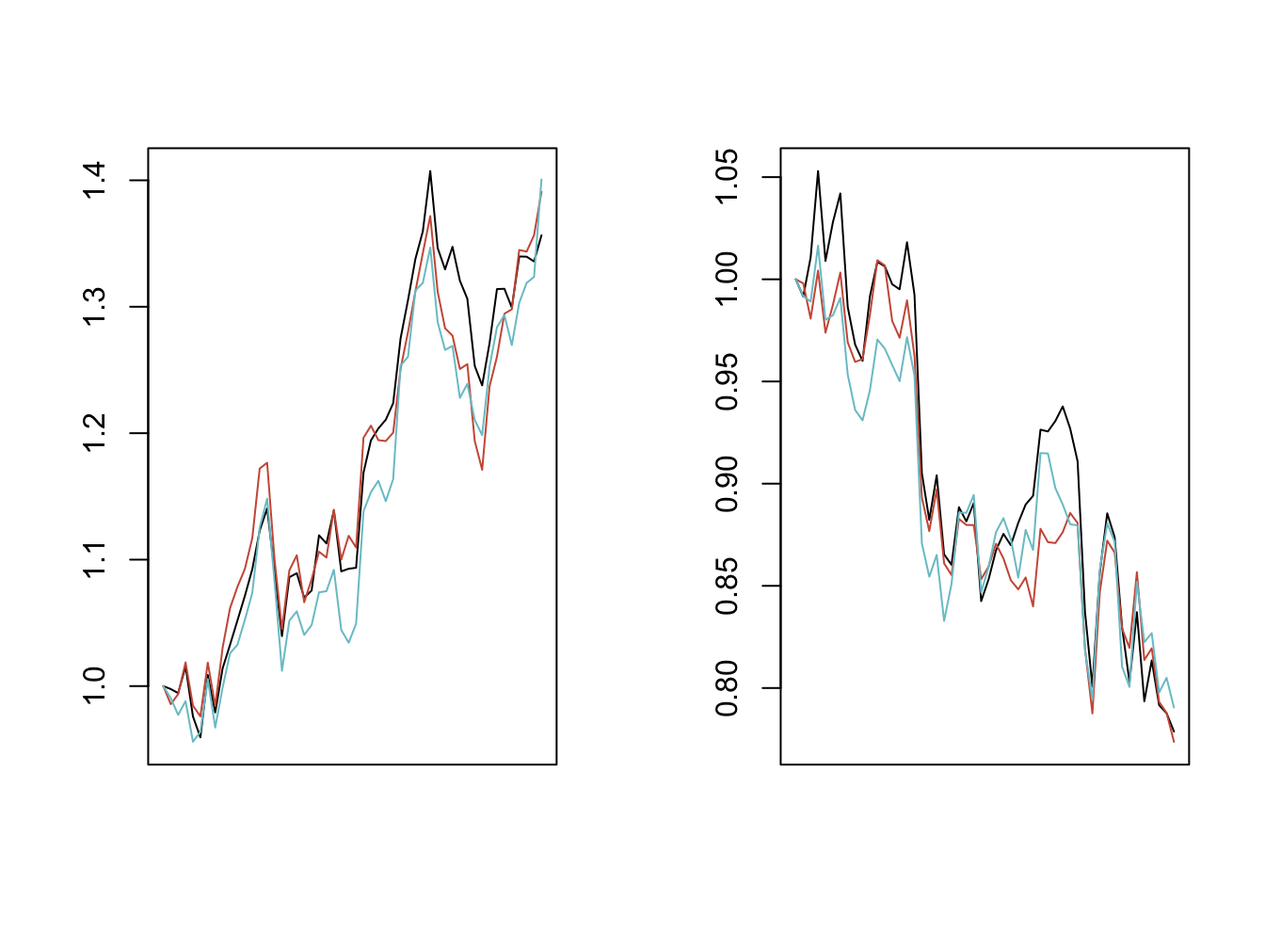
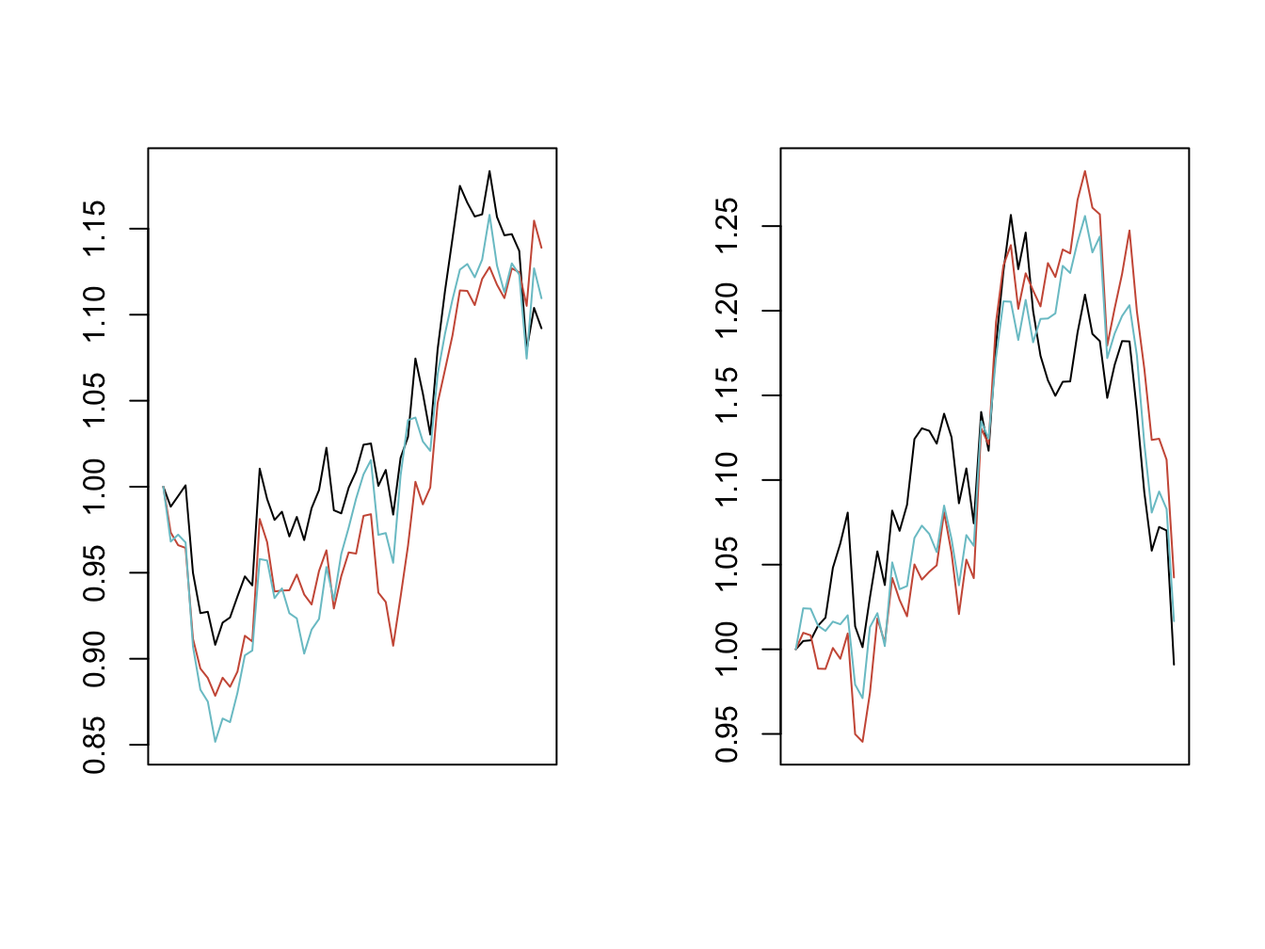
Add payoffs
FCN

diff --git a/docs/payoff.html b/docs/payoff.html
@@ -26,7 +26,7 @@
 <meta name="author" content="Ivan Tan">
 
 
-<meta name="date" content="2017-03-06">
+<meta name="date" content="2017-03-07">
 
   <meta name="viewport" content="width=device-width, initial-scale=1">
   <meta name="apple-mobile-web-app-capable" content="yes">
@@ -121,9 +121,9 @@ code > span.in { color: #60a0b0; font-weight: bold; font-style: italic; } /* Inf
 <li class="chapter" data-level="3.1.4" data-path="payoff.html"><a href="payoff.html#combinations"><i class="fa fa-check"></i><b>3.1.4</b> Combinations</a></li>
 </ul></li>
 <li class="chapter" data-level="3.2" data-path="payoff.html"><a href="payoff.html#autocallable"><i class="fa fa-check"></i><b>3.2</b> Autocallable</a><ul>
-<li class="chapter" data-level="3.2.1" data-path="payoff.html"><a href="payoff.html#apollon"><i class="fa fa-check"></i><b>3.2.1</b> Snowball</a></li>
-<li class="chapter" data-level="3.2.2" data-path="payoff.html"><a href="payoff.html#phoenix"><i class="fa fa-check"></i><b>3.2.2</b> Phoenix</a></li>
-<li class="chapter" data-level="3.2.3" data-path="payoff.html"><a href="payoff.html#fcn"><i class="fa fa-check"></i><b>3.2.3</b> Fixed Coupons Notes</a></li>
+<li class="chapter" data-level="3.2.1" data-path="payoff.html"><a href="payoff.html#fcn"><i class="fa fa-check"></i><b>3.2.1</b> Fixed Coupon</a></li>
+<li class="chapter" data-level="3.2.2" data-path="payoff.html"><a href="payoff.html#apollon"><i class="fa fa-check"></i><b>3.2.2</b> Snowball</a></li>
+<li class="chapter" data-level="3.2.3" data-path="payoff.html"><a href="payoff.html#phoenix"><i class="fa fa-check"></i><b>3.2.3</b> Phoenix</a></li>
 </ul></li>
 <li class="chapter" data-level="3.3" data-path="payoff.html"><a href="payoff.html#issuercallable"><i class="fa fa-check"></i><b>3.3</b> Issuercallable</a></li>
 </ul></li>
@@ -174,7 +174,7 @@ derived from public sources</a></li>
 diffusions =<span class="st">  </span><span class="kw">aSampleSpotT</span>(<span class="dv">1</span>, <span class="dv">0</span>, <span class="dv">0</span>, <span class="dv">0</span>, <span class="fl">0.2</span>, <span class="dv">1</span>, <span class="dv">50000</span>)
 payoffs =<span class="st"> </span><span class="kw">pmax</span>(<span class="dv">0</span>, diffusions -<span class="st"> </span>strikeK)
 <span class="kw">mean</span>(payoffs)</code></pre></div>
-<pre><code>## [1] 0.07949793</code></pre>
+<pre><code>## [1] 0.07994125</code></pre>
 <p>Comparing the result to the Black Scholes solution:</p>
 <p><span class="math display">\[
     \mathrm C(\mathrm S,\mathrm t)= \mathrm N(\mathrm d_1)\mathrm S - \mathrm N(\mathrm d_2) \mathrm K \mathrm e^{-rt}
@@ -246,7 +246,7 @@ Figure 3.1: 2 separate trajectories; Left path ends below the strike and receive
 digitCpn =<span class="st"> </span><span class="fl">0.1</span>
 digitPays =<span class="st"> </span>(diffusions &gt;<span class="st"> </span>digitK)*digitCpn
 <span class="kw">mean</span>(digitPays)</code></pre></div>
-<pre><code>## [1] 0.028054</code></pre>
+<pre><code>## [1] 0.028108</code></pre>
 </div>
 <div id="pdi" class="section level3">
 <h3><span class="header-section-number">3.1.2</span> Put Down and In</h3>
@@ -258,12 +258,12 @@ pdi80Hit =<span class="st"> </span>diffusions &lt;=<span class="st"> </span>eki8
 putPays =<span class="st"> </span><span class="kw">pmax</span>(<span class="dv">0</span>, pdiK -<span class="st"> </span>diffusions)
 pdi80Pays =<span class="st"> </span>putPays*<span class="kw">as.double</span>(pdi80Hit)
 <span class="kw">mean</span>(-<span class="dv">1</span> *<span class="st"> </span>pdi80Pays) <span class="co"># price of short pdi with eki = 80% and strike = 100%</span></code></pre></div>
-<pre><code>## [1] -0.04223061</code></pre>
+<pre><code>## [1] -0.04265471</code></pre>
 <p>We will use the convention of a negative premium for investor <strong>receiving</strong> the premium instead of paying the premium.</p>
 <p>If we think of the knock-in feature on a short put as <em>protection</em>, that is the option seller sold a put that will not be in the money unless the underlying has first broken the knock in barrier, then we should expect a <em>put down and in</em> with european barrier at 80% to bring less value than one with barrier at 90%. Both of which has to be cheaper than a straight put, or a put without knock-in feature.</p>
 <div class="sourceCode"><pre class="sourceCode r"><code class="sourceCode r">pdi_comparison =<span class="st"> </span><span class="kw">c</span>(<span class="kw">mean</span>(-<span class="dv">1</span> *<span class="st"> </span>pdi80Pays), <span class="kw">mean</span>(-<span class="dv">1</span> *<span class="st"> </span>pdi90Pays), <span class="kw">mean</span>(-<span class="dv">1</span> *<span class="st"> </span>putPays))
 pdi_comparison</code></pre></div>
-<pre><code>## [1] -0.04223061 -0.06903801 -0.07937410</code></pre>
+<pre><code>## [1] -0.04265471 -0.06934816 -0.07973815</code></pre>
 <p>We see the seller of the different puts receives more if he sold a <em>put down and in</em> with higher knock-in barrier, or when there is no barrier (a put). Looking consistent!</p>
 <p>By the same argument, a <em>put down and in</em> with american (daily close) knock-in observation type costs more than the european type, since there are more opportunities for the product to be knocked in. We delay this comparison on observation frequency to the next section.</p>
 <p>In structured products, puts with knock-in features are very common, since they provide some protection for the investors unless the underlying has severely underperformed.</p>
@@ -377,14 +377,69 @@ Figure 3.5: Payoff diagram of the product at maturity. Worst performance ended a
 </div>
 <div id="autocallable" class="section level2">
 <h2><span class="header-section-number">3.2</span> Autocallable</h2>
+<p>Autocallable payoffs have features that allow them to “mature” earlier than their stated expiry when a condition is satisfied. During early redemption the investor gets to receive back their full notional before the contractual maturity. If the payoff has any downside risk at maturity, being autocallable also means the investor no longer gets exposed to the downside.</p>
+<p>In practice, distributors of structure products make their commission from each sale, when a product get redeemed they get an opportunity to pitch another product to their clients, these reasons make autocallable product fairly popular structures.</p>
+<p>The condition to be satisfied could be linked to a stock’s performance. An example would be the product automatically early redeeems if the stock’s daily closing price ever breaches a certain price level before maturity.</p>
+<p>On early redemption the investor may also receive an upside. We look at some possible upsides on autocallable payoffs below.</p>
+<div id="fcn" class="section level3">
+<h3><span class="header-section-number">3.2.1</span> Fixed Coupon</h3>
+<p>Fixed coupon autocallables pays a guaranteed coupon to the investor at pre-specified times during the product. The observation of autocall condition can be made the same as these coupon payout timings.</p>
+<p>As an example, assume an investor buys a two year 8% annualised fixed coupon autocallable note linked to one stock. The autocall condition (or event) is observed quarterly over the one year and the 8 quarterly fixed coupons will be paid at each of these observation timings.</p>
+<p>The autocall event is satisfied if the stock performs better than it’s initial spot at each of this fixings. When the event triggers, the period’s coupon and the notional paid on the note is returned to the investor.</p>
+<p>In other to pay these upside, the product embeds a short put striked at the money. We assume the stock has a constant 30% annual volatility, drift and rates are equal zero. A sample quarterly close of this stock is:</p>
+<div class="sourceCode"><pre class="sourceCode r"><code class="sourceCode r"><span class="kw">set.seed</span>(<span class="dv">1</span>)
+fcn_numSteps =<span class="st"> </span><span class="dv">8</span> <span class="co"># 8 qtrly obs</span>
+fcn_oneTraj =<span class="st"> </span><span class="kw">rep</span>(<span class="dv">1</span>, fcn_numSteps<span class="dv">+1</span>)
+for (i in <span class="dv">2</span>:(fcn_numSteps<span class="dv">+1</span>))
+  fcn_oneTraj[i] =<span class="st"> </span><span class="kw">aSampleSpotT</span>(fcn_oneTraj[i<span class="dv">-1</span>], <span class="dv">0</span>, <span class="dv">0</span>, <span class="dv">0</span>, <span class="fl">0.3</span>, <span class="dv">2</span>/fcn_numSteps, <span class="dv">1</span>)
+<span class="kw">cat</span>(<span class="st">&quot;Stock price at each of the 8 quarterly close: &quot;</span>, fcn_oneTraj)</code></pre></div>
+<pre><code>## Stock price at each of the 8 quarterly close:  1 0.9001282 0.9149173 0.7981044 1.002529 1.041542 0.9106307 0.9687454 1.070093</code></pre>
+<p>We see that during the first 9 months, the quarterly closes were not above the initial price, so there was no early redemption. The guaranteed quarterly 2% coupons were also paid, so the investor received 6% up till the 3rd quarter. On the end of year 1, the underlying closed around 100.3%, just barely over the initial spot. Since there is an autocallble feature in this note. The investor receives his notional plus the final 2% on the end of year 1.</p>
+<p>The product then early terminates and investor no longer receives further coupons or is exposed to the downside at maturity. If there were no autocall feature in the payoff, the client would have received a further year of coupons. The put he sold did not end up in the money. Therefore the total return were have been 16% over entire tenor.</p>
+<p>Pricing this product is a matter of simulation the stock diffusions and evaluation the payoff, that is determining the cashflows of the product for each sample trajectory. For this stylised example we also assuming rates were zero, so no discounting of the cashflows is needed.</p>
+<div class="sourceCode"><pre class="sourceCode r"><code class="sourceCode r"><span class="co"># generate the diffusion</span>
+<span class="kw">set.seed</span>(<span class="dv">1</span>)
+fcn_nsims =<span class="st"> </span><span class="dv">10000</span>
+fcn_manyTraj =<span class="st"> </span><span class="kw">matrix</span>(<span class="kw">rep</span>(<span class="dv">1</span>, (fcn_numSteps<span class="dv">+1</span>)*fcn_nsims), <span class="dt">nrow =</span> fcn_nsims)
+for (i in <span class="dv">2</span>:(fcn_numSteps<span class="dv">+1</span>))
+  fcn_manyTraj[,i] =<span class="st"> </span><span class="kw">aSampleSpotT</span>(fcn_manyTraj[,i<span class="dv">-1</span>], <span class="dv">0</span>, <span class="dv">0</span>, <span class="dv">0</span>, <span class="fl">0.3</span>, <span class="dv">2</span>/fcn_numSteps, fcn_nsims)
+
+<span class="co"># evaluate the payoff at each observation</span>
+fcn_payoffs =<span class="st"> </span><span class="kw">matrix</span>(<span class="kw">rep</span>(<span class="dv">0</span>, (fcn_numSteps<span class="dv">+1</span>)*fcn_nsims), <span class="dt">nrow =</span> fcn_nsims)
+
+<span class="co"># upside</span>
+for (i in <span class="dv">1</span>:fcn_nsims)
+  for (j in <span class="dv">2</span>:fcn_numSteps)
+  {
+    spot =<span class="st"> </span>fcn_manyTraj[i, j]
+    if (spot &gt;<span class="st"> </span><span class="dv">1</span>) {
+      fcn_payoffs[i, j] =<span class="st"> </span><span class="fl">0.02</span>
+      if (j !=<span class="st"> </span>fcn_numSteps)
+        fcn_payoffs[i, (j<span class="dv">+1</span>):fcn_numSteps] =<span class="st"> </span><span class="dv">0</span>
+      break;
+    } else {
+      fcn_payoffs[i, j] =<span class="st"> </span><span class="fl">0.02</span>
+    }
+  }
+
+<span class="co"># downsides</span>
+for (i in <span class="dv">1</span>:fcn_nsims)
+{
+  if (<span class="kw">sum</span>(fcn_manyTraj[i,<span class="dv">1</span>:(fcn_numSteps<span class="dv">+1</span>)] &gt;<span class="st"> </span><span class="dv">1</span>) &lt;<span class="st"> </span><span class="fl">0.5</span>)
+    fcn_payoffs[i, fcn_numSteps<span class="dv">+1</span>] =<span class="st">  </span>-<span class="kw">max</span>(<span class="dv">0</span>, <span class="dv">1</span> -<span class="st"> </span>fcn_manyTraj[i, fcn_numSteps<span class="dv">+1</span>])
+}
+
+<span class="co"># sum all cashflows and take the average</span>
+fcn_retPerTraj =<span class="st"> </span><span class="kw">apply</span>(fcn_payoffs, <span class="dv">1</span>, sum)
+<span class="kw">mean</span>(fcn_retPerTraj)</code></pre></div>
+<pre><code>## [1] -0.02590366</code></pre>
+<p>If the issuer and distributor had sold at par the note to the end investor at these stated terms, they would collectively kept 2.6% as margins and hedging costs.</p>
+</div>
 <div id="apollon" class="section level3">
-<h3><span class="header-section-number">3.2.1</span> Snowball</h3>
+<h3><span class="header-section-number">3.2.2</span> Snowball</h3>
 </div>
 <div id="phoenix" class="section level3">
-<h3><span class="header-section-number">3.2.2</span> Phoenix</h3>
-</div>
-<div id="fcn" class="section level3">
-<h3><span class="header-section-number">3.2.3</span> Fixed Coupons Notes</h3>
+<h3><span class="header-section-number">3.2.3</span> Phoenix</h3>
 </div>
 </div>
 <div id="issuercallable" class="section level2">

diff --git a/docs/index.html b/docs/index.html
@@ -26,7 +26,7 @@
 <meta name="author" content="Ivan Tan">
 
 
-<meta name="date" content="2017-03-06">
+<meta name="date" content="2017-03-07">
 
   <meta name="viewport" content="width=device-width, initial-scale=1">
   <meta name="apple-mobile-web-app-capable" content="yes">
@@ -121,9 +121,9 @@ code > span.in { color: #60a0b0; font-weight: bold; font-style: italic; } /* Inf
 <li class="chapter" data-level="3.1.4" data-path="payoff.html"><a href="payoff.html#combinations"><i class="fa fa-check"></i><b>3.1.4</b> Combinations</a></li>
 </ul></li>
 <li class="chapter" data-level="3.2" data-path="payoff.html"><a href="payoff.html#autocallable"><i class="fa fa-check"></i><b>3.2</b> Autocallable</a><ul>
-<li class="chapter" data-level="3.2.1" data-path="payoff.html"><a href="payoff.html#apollon"><i class="fa fa-check"></i><b>3.2.1</b> Snowball</a></li>
-<li class="chapter" data-level="3.2.2" data-path="payoff.html"><a href="payoff.html#phoenix"><i class="fa fa-check"></i><b>3.2.2</b> Phoenix</a></li>
-<li class="chapter" data-level="3.2.3" data-path="payoff.html"><a href="payoff.html#fcn"><i class="fa fa-check"></i><b>3.2.3</b> Fixed Coupons Notes</a></li>
+<li class="chapter" data-level="3.2.1" data-path="payoff.html"><a href="payoff.html#fcn"><i class="fa fa-check"></i><b>3.2.1</b> Fixed Coupon</a></li>
+<li class="chapter" data-level="3.2.2" data-path="payoff.html"><a href="payoff.html#apollon"><i class="fa fa-check"></i><b>3.2.2</b> Snowball</a></li>
+<li class="chapter" data-level="3.2.3" data-path="payoff.html"><a href="payoff.html#phoenix"><i class="fa fa-check"></i><b>3.2.3</b> Phoenix</a></li>
 </ul></li>
 <li class="chapter" data-level="3.3" data-path="payoff.html"><a href="payoff.html#issuercallable"><i class="fa fa-check"></i><b>3.3</b> Issuercallable</a></li>
 </ul></li>
@@ -169,7 +169,7 @@ derived from public sources</a></li>
 <div id="header">
 <h1 class="title">Notes</h1>
 <h4 class="author"><em>Ivan Tan</em></h4>
-<h4 class="date"><em>2017-03-06</em></h4>
+<h4 class="date"><em>2017-03-07</em></h4>
 </div>
 <div id="diffuse" class="section level1">
 <h1><span class="header-section-number">Chapter 1</span> Diffusion</h1>
@@ -183,7 +183,7 @@ derived from public sources</a></li>
   sT
 }
 <span class="kw">cat</span>(<span class="st">&quot;Spot after 1 year: &quot;</span>, <span class="kw">aSampleSpotT</span>(<span class="dv">1</span>, <span class="fl">0.04</span>, <span class="fl">0.01</span>, <span class="dv">0</span>, <span class="fl">0.2</span>, <span class="dv">1</span>, <span class="dv">1</span>))</code></pre></div>
-<pre><code>## Spot after 1 year:  1.058742</code></pre>
+<pre><code>## Spot after 1 year:  1.227238</code></pre>
 <p>If required we may also compute over several consecutive periods to generate a trajectory. If we repeat this process many times we see how the stock diffusion is going to look like.</p>
 <p>Assuming we will drift the stock by 0% p.a., that is market parameters <span class="math inline">\(r - d - q = 0\)</span>, and that it has constant annualised volatility of 20%, Let’s plot several trajectories. See Figure <a href="index.html#fig:several-traj">1.1</a>:</p>
 <div class="sourceCode"><pre class="sourceCode r"><code class="sourceCode r">numSteps =<span class="st"> </span><span class="dv">52</span> <span class="co"># weekly</span>
@@ -191,7 +191,7 @@ oneTraj =<span class="st"> </span><span class="kw">rep</span>(<span class="dv">1
 for (i in <span class="dv">2</span>:numSteps)
   oneTraj[i] =<span class="st"> </span><span class="kw">aSampleSpotT</span>(oneTraj[i<span class="dv">-1</span>], <span class="dv">0</span>, <span class="dv">0</span>, <span class="dv">0</span>, <span class="fl">0.2</span>, <span class="dv">1</span>/numSteps, <span class="dv">1</span>)
 <span class="kw">cat</span>(<span class="st">&quot;First 5 weekly close: &quot;</span>, oneTraj[<span class="dv">1</span>:<span class="dv">5</span>])</code></pre></div>
-<pre><code>## First 5 weekly close:  1 0.9732981 0.9148824 0.9325205 0.9330477</code></pre>
+<pre><code>## First 5 weekly close:  1 0.9979712 0.9938938 1.000732 0.9860534</code></pre>
 <div class="sourceCode"><pre class="sourceCode r"><code class="sourceCode r"><span class="kw">par</span>(<span class="dt">mfrow =</span> <span class="kw">c</span>(<span class="dv">1</span>, <span class="dv">2</span>))
 <span class="kw">plot</span>(oneTraj, <span class="dt">type =</span> <span class="st">&quot;l&quot;</span>,
      <span class="dt">axes =</span> F, <span class="dt">xlab =</span> <span class="st">&quot;&quot;</span>, <span class="dt">ylab =</span> <span class="st">&quot;&quot;</span>,
@@ -284,26 +284,26 @@ for (i in <span class="dv">2</span>:numSteps)
 <tr class="odd">
 <td>undl1</td>
 <td align="right">1</td>
-<td align="right">0.9976845</td>
-<td align="right">0.9944772</td>
-<td align="right">1.0154737</td>
-<td align="right">0.9759374</td>
+<td align="right">0.9884012</td>
+<td align="right">0.9945701</td>
+<td align="right">1.0008157</td>
+<td align="right">0.9499782</td>
 </tr>
 <tr class="even">
 <td>undl2</td>
 <td align="right">1</td>
-<td align="right">0.9856863</td>
-<td align="right">0.9936068</td>
-<td align="right">1.0187560</td>
-<td align="right">0.9845475</td>
+<td align="right">0.9733947</td>
+<td align="right">0.9660142</td>
+<td align="right">0.9644417</td>
+<td align="right">0.9116083</td>
 </tr>
 <tr class="odd">
 <td>undl3</td>
 <td align="right">1</td>
-<td align="right">0.9905005</td>
-<td align="right">0.9772523</td>
-<td align="right">0.9880967</td>
-<td align="right">0.9559537</td>
+<td align="right">0.9681131</td>
+<td align="right">0.9721311</td>
+<td align="right">0.9676015</td>
+<td align="right">0.9070814</td>
 </tr>
 </tbody>
 </table>
@@ -332,12 +332,12 @@ for (i in <span class="dv">2</span>:numSteps)
 <p>In this stylised result we see how the worst-of underlying may differ over time.</p>
 <div class="sourceCode"><pre class="sourceCode r"><code class="sourceCode r"><span class="kw">print</span>(corrTraj2[,<span class="dv">1</span>:<span class="dv">5</span>]) <span class="co"># First 5 weekly close of 3 less correlated undls</span></code></pre></div>
 <pre><code>##      [,1]      [,2]      [,3]      [,4]      [,5]
-## [1,]    1 0.9579938 0.9608714 0.9303943 0.9096714
-## [2,]    1 1.0023613 1.0167211 1.0334814 1.0329243
-## [3,]    1 0.9628227 0.9567382 0.9415245 0.9399668</code></pre>
+## [1,]    1 1.0533054 1.0538027 1.0191959 1.0132602
+## [2,]    1 0.9830126 0.9931209 0.9652524 0.9637003
+## [3,]    1 1.0100581 1.0082731 1.0377573 1.0424124</code></pre>
 <div class="sourceCode"><pre class="sourceCode r"><code class="sourceCode r">woTraj =<span class="st"> </span><span class="kw">apply</span>(corrTraj2, <span class="dv">2</span>, min)
 <span class="kw">print</span>(woTraj[<span class="dv">1</span>:<span class="dv">5</span>]) <span class="co"># First 5 weekly close of the worst &quot;underlying&quot;</span></code></pre></div>
-<pre><code>## [1] 1.0000000 0.9579938 0.9567382 0.9303943 0.9096714</code></pre>
+<pre><code>## [1] 1.0000000 0.9830126 0.9931209 0.9652524 0.9637003</code></pre>
 <p>Let’s plot one sample of all underlying paths. On the right we overlay the worst-of “underlying” in blue while greying out the actual underlying paths. See Figure <a href="index.html#fig:wo-traj-plot">1.3</a>:</p>
 <div class="sourceCode"><pre class="sourceCode r"><code class="sourceCode r"><span class="kw">par</span>(<span class="dt">mfrow =</span> <span class="kw">c</span>(<span class="dv">1</span>, <span class="dv">2</span>))
 <span class="kw">plot</span>(corrTraj2[<span class="dv">1</span>,], <span class="dt">type =</span> <span class="st">&quot;l&quot;</span>,
@@ -370,12 +370,12 @@ Figure 1.3: A basket of 3 underlyings (in grey) and the worst-of underlying (in 
 <p>Unlike the worst-of call option, a best-of call is more expensive than the average of call. However, if you have a bearish view, buying a best-of put is much more affordable. Likewise, <em>selling</em> a best-of call brings the investor much more premium.</p>
 <div class="sourceCode"><pre class="sourceCode r"><code class="sourceCode r"><span class="kw">print</span>(corrTraj2[,<span class="dv">1</span>:<span class="dv">5</span>]) <span class="co"># First 5 weekly close of 3 correlated undls</span></code></pre></div>
 <pre><code>##      [,1]      [,2]      [,3]      [,4]      [,5]
-## [1,]    1 0.9579938 0.9608714 0.9303943 0.9096714
-## [2,]    1 1.0023613 1.0167211 1.0334814 1.0329243
-## [3,]    1 0.9628227 0.9567382 0.9415245 0.9399668</code></pre>
+## [1,]    1 1.0533054 1.0538027 1.0191959 1.0132602
+## [2,]    1 0.9830126 0.9931209 0.9652524 0.9637003
+## [3,]    1 1.0100581 1.0082731 1.0377573 1.0424124</code></pre>
 <div class="sourceCode"><pre class="sourceCode r"><code class="sourceCode r">boTraj =<span class="st"> </span><span class="kw">apply</span>(corrTraj2, <span class="dv">2</span>, max)
 <span class="kw">print</span>(woTraj[<span class="dv">1</span>:<span class="dv">5</span>]) <span class="co"># First 5 weekly close of the worst &quot;underlying&quot;</span></code></pre></div>
-<pre><code>## [1] 1.0000000 0.9579938 0.9567382 0.9303943 0.9096714</code></pre>
+<pre><code>## [1] 1.0000000 0.9830126 0.9931209 0.9652524 0.9637003</code></pre>
 <p>Again, we see there is no need for the best-of “underlying” to be the same underlying in the basket from start to end of the product tenor. See Figure <a href="index.html#fig:bo-traj-plot">1.4</a>:</p>
 <div class="sourceCode"><pre class="sourceCode r"><code class="sourceCode r"><span class="kw">par</span>(<span class="dt">mfrow =</span> <span class="kw">c</span>(<span class="dv">1</span>, <span class="dv">2</span>))
 <span class="kw">plot</span>(corrTraj2[<span class="dv">1</span>,], <span class="dt">type =</span> <span class="st">&quot;l&quot;</span>,

diff --git a/docs/lsmc.html b/docs/lsmc.html
@@ -26,7 +26,7 @@
 <meta name="author" content="Ivan Tan">
 
 
-<meta name="date" content="2017-03-06">
+<meta name="date" content="2017-03-07">
 
   <meta name="viewport" content="width=device-width, initial-scale=1">
   <meta name="apple-mobile-web-app-capable" content="yes">
@@ -121,9 +121,9 @@ code > span.in { color: #60a0b0; font-weight: bold; font-style: italic; } /* Inf
 <li class="chapter" data-level="3.1.4" data-path="payoff.html"><a href="payoff.html#combinations"><i class="fa fa-check"></i><b>3.1.4</b> Combinations</a></li>
 </ul></li>
 <li class="chapter" data-level="3.2" data-path="payoff.html"><a href="payoff.html#autocallable"><i class="fa fa-check"></i><b>3.2</b> Autocallable</a><ul>
-<li class="chapter" data-level="3.2.1" data-path="payoff.html"><a href="payoff.html#apollon"><i class="fa fa-check"></i><b>3.2.1</b> Snowball</a></li>
-<li class="chapter" data-level="3.2.2" data-path="payoff.html"><a href="payoff.html#phoenix"><i class="fa fa-check"></i><b>3.2.2</b> Phoenix</a></li>
-<li class="chapter" data-level="3.2.3" data-path="payoff.html"><a href="payoff.html#fcn"><i class="fa fa-check"></i><b>3.2.3</b> Fixed Coupons Notes</a></li>
+<li class="chapter" data-level="3.2.1" data-path="payoff.html"><a href="payoff.html#fcn"><i class="fa fa-check"></i><b>3.2.1</b> Fixed Coupon</a></li>
+<li class="chapter" data-level="3.2.2" data-path="payoff.html"><a href="payoff.html#apollon"><i class="fa fa-check"></i><b>3.2.2</b> Snowball</a></li>
+<li class="chapter" data-level="3.2.3" data-path="payoff.html"><a href="payoff.html#phoenix"><i class="fa fa-check"></i><b>3.2.3</b> Phoenix</a></li>
 </ul></li>
 <li class="chapter" data-level="3.3" data-path="payoff.html"><a href="payoff.html#issuercallable"><i class="fa fa-check"></i><b>3.3</b> Issuercallable</a></li>
 </ul></li>

diff --git a/docs/quirk.html b/docs/quirk.html
@@ -26,7 +26,7 @@
 <meta name="author" content="Ivan Tan">
 
 
-<meta name="date" content="2017-03-06">
+<meta name="date" content="2017-03-07">
 
   <meta name="viewport" content="width=device-width, initial-scale=1">
   <meta name="apple-mobile-web-app-capable" content="yes">
@@ -121,9 +121,9 @@ code > span.in { color: #60a0b0; font-weight: bold; font-style: italic; } /* Inf
 <li class="chapter" data-level="3.1.4" data-path="payoff.html"><a href="payoff.html#combinations"><i class="fa fa-check"></i><b>3.1.4</b> Combinations</a></li>
 </ul></li>
 <li class="chapter" data-level="3.2" data-path="payoff.html"><a href="payoff.html#autocallable"><i class="fa fa-check"></i><b>3.2</b> Autocallable</a><ul>
-<li class="chapter" data-level="3.2.1" data-path="payoff.html"><a href="payoff.html#apollon"><i class="fa fa-check"></i><b>3.2.1</b> Snowball</a></li>
-<li class="chapter" data-level="3.2.2" data-path="payoff.html"><a href="payoff.html#phoenix"><i class="fa fa-check"></i><b>3.2.2</b> Phoenix</a></li>
-<li class="chapter" data-level="3.2.3" data-path="payoff.html"><a href="payoff.html#fcn"><i class="fa fa-check"></i><b>3.2.3</b> Fixed Coupons Notes</a></li>
+<li class="chapter" data-level="3.2.1" data-path="payoff.html"><a href="payoff.html#fcn"><i class="fa fa-check"></i><b>3.2.1</b> Fixed Coupon</a></li>
+<li class="chapter" data-level="3.2.2" data-path="payoff.html"><a href="payoff.html#apollon"><i class="fa fa-check"></i><b>3.2.2</b> Snowball</a></li>
+<li class="chapter" data-level="3.2.3" data-path="payoff.html"><a href="payoff.html#phoenix"><i class="fa fa-check"></i><b>3.2.3</b> Phoenix</a></li>
 </ul></li>
 <li class="chapter" data-level="3.3" data-path="payoff.html"><a href="payoff.html#issuercallable"><i class="fa fa-check"></i><b>3.3</b> Issuercallable</a></li>
 </ul></li>

diff --git a/docs/refer.html b/docs/refer.html
@@ -26,7 +26,7 @@
 <meta name="author" content="Ivan Tan">
 
 
-<meta name="date" content="2017-03-06">
+<meta name="date" content="2017-03-07">
 
   <meta name="viewport" content="width=device-width, initial-scale=1">
   <meta name="apple-mobile-web-app-capable" content="yes">
@@ -121,9 +121,9 @@ code > span.in { color: #60a0b0; font-weight: bold; font-style: italic; } /* Inf
 <li class="chapter" data-level="3.1.4" data-path="payoff.html"><a href="payoff.html#combinations"><i class="fa fa-check"></i><b>3.1.4</b> Combinations</a></li>
 </ul></li>
 <li class="chapter" data-level="3.2" data-path="payoff.html"><a href="payoff.html#autocallable"><i class="fa fa-check"></i><b>3.2</b> Autocallable</a><ul>
-<li class="chapter" data-level="3.2.1" data-path="payoff.html"><a href="payoff.html#apollon"><i class="fa fa-check"></i><b>3.2.1</b> Snowball</a></li>
-<li class="chapter" data-level="3.2.2" data-path="payoff.html"><a href="payoff.html#phoenix"><i class="fa fa-check"></i><b>3.2.2</b> Phoenix</a></li>
-<li class="chapter" data-level="3.2.3" data-path="payoff.html"><a href="payoff.html#fcn"><i class="fa fa-check"></i><b>3.2.3</b> Fixed Coupons Notes</a></li>
+<li class="chapter" data-level="3.2.1" data-path="payoff.html"><a href="payoff.html#fcn"><i class="fa fa-check"></i><b>3.2.1</b> Fixed Coupon</a></li>
+<li class="chapter" data-level="3.2.2" data-path="payoff.html"><a href="payoff.html#apollon"><i class="fa fa-check"></i><b>3.2.2</b> Snowball</a></li>
+<li class="chapter" data-level="3.2.3" data-path="payoff.html"><a href="payoff.html#phoenix"><i class="fa fa-check"></i><b>3.2.3</b> Phoenix</a></li>
 </ul></li>
 <li class="chapter" data-level="3.3" data-path="payoff.html"><a href="payoff.html#issuercallable"><i class="fa fa-check"></i><b>3.3</b> Issuercallable</a></li>
 </ul></li>

diff --git a/docs/scen.html b/docs/scen.html
@@ -26,7 +26,7 @@
 <meta name="author" content="Ivan Tan">
 
 
-<meta name="date" content="2017-03-06">
+<meta name="date" content="2017-03-07">
 
   <meta name="viewport" content="width=device-width, initial-scale=1">
   <meta name="apple-mobile-web-app-capable" content="yes">
@@ -121,9 +121,9 @@ code > span.in { color: #60a0b0; font-weight: bold; font-style: italic; } /* Inf
 <li class="chapter" data-level="3.1.4" data-path="payoff.html"><a href="payoff.html#combinations"><i class="fa fa-check"></i><b>3.1.4</b> Combinations</a></li>
 </ul></li>
 <li class="chapter" data-level="3.2" data-path="payoff.html"><a href="payoff.html#autocallable"><i class="fa fa-check"></i><b>3.2</b> Autocallable</a><ul>
-<li class="chapter" data-level="3.2.1" data-path="payoff.html"><a href="payoff.html#apollon"><i class="fa fa-check"></i><b>3.2.1</b> Snowball</a></li>
-<li class="chapter" data-level="3.2.2" data-path="payoff.html"><a href="payoff.html#phoenix"><i class="fa fa-check"></i><b>3.2.2</b> Phoenix</a></li>
-<li class="chapter" data-level="3.2.3" data-path="payoff.html"><a href="payoff.html#fcn"><i class="fa fa-check"></i><b>3.2.3</b> Fixed Coupons Notes</a></li>
+<li class="chapter" data-level="3.2.1" data-path="payoff.html"><a href="payoff.html#fcn"><i class="fa fa-check"></i><b>3.2.1</b> Fixed Coupon</a></li>
+<li class="chapter" data-level="3.2.2" data-path="payoff.html"><a href="payoff.html#apollon"><i class="fa fa-check"></i><b>3.2.2</b> Snowball</a></li>
+<li class="chapter" data-level="3.2.3" data-path="payoff.html"><a href="payoff.html#phoenix"><i class="fa fa-check"></i><b>3.2.3</b> Phoenix</a></li>
 </ul></li>
 <li class="chapter" data-level="3.3" data-path="payoff.html"><a href="payoff.html#issuercallable"><i class="fa fa-check"></i><b>3.3</b> Issuercallable</a></li>
 </ul></li>

diff --git a/docs/sensi.html b/docs/sensi.html
@@ -26,7 +26,7 @@
 <meta name="author" content="Ivan Tan">
 
 
-<meta name="date" content="2017-03-06">
+<meta name="date" content="2017-03-07">
 
   <meta name="viewport" content="width=device-width, initial-scale=1">
   <meta name="apple-mobile-web-app-capable" content="yes">
@@ -121,9 +121,9 @@ code > span.in { color: #60a0b0; font-weight: bold; font-style: italic; } /* Inf
 <li class="chapter" data-level="3.1.4" data-path="payoff.html"><a href="payoff.html#combinations"><i class="fa fa-check"></i><b>3.1.4</b> Combinations</a></li>
 </ul></li>
 <li class="chapter" data-level="3.2" data-path="payoff.html"><a href="payoff.html#autocallable"><i class="fa fa-check"></i><b>3.2</b> Autocallable</a><ul>
-<li class="chapter" data-level="3.2.1" data-path="payoff.html"><a href="payoff.html#apollon"><i class="fa fa-check"></i><b>3.2.1</b> Snowball</a></li>
-<li class="chapter" data-level="3.2.2" data-path="payoff.html"><a href="payoff.html#phoenix"><i class="fa fa-check"></i><b>3.2.2</b> Phoenix</a></li>
-<li class="chapter" data-level="3.2.3" data-path="payoff.html"><a href="payoff.html#fcn"><i class="fa fa-check"></i><b>3.2.3</b> Fixed Coupons Notes</a></li>
+<li class="chapter" data-level="3.2.1" data-path="payoff.html"><a href="payoff.html#fcn"><i class="fa fa-check"></i><b>3.2.1</b> Fixed Coupon</a></li>
+<li class="chapter" data-level="3.2.2" data-path="payoff.html"><a href="payoff.html#apollon"><i class="fa fa-check"></i><b>3.2.2</b> Snowball</a></li>
+<li class="chapter" data-level="3.2.3" data-path="payoff.html"><a href="payoff.html#phoenix"><i class="fa fa-check"></i><b>3.2.3</b> Phoenix</a></li>
 </ul></li>
 <li class="chapter" data-level="3.3" data-path="payoff.html"><a href="payoff.html#issuercallable"><i class="fa fa-check"></i><b>3.3</b> Issuercallable</a></li>
 </ul></li>

diff --git a/docs/volsurf.html b/docs/volsurf.html
@@ -26,7 +26,7 @@
 <meta name="author" content="Ivan Tan">
 
 
-<meta name="date" content="2017-03-06">
+<meta name="date" content="2017-03-07">
 
   <meta name="viewport" content="width=device-width, initial-scale=1">
   <meta name="apple-mobile-web-app-capable" content="yes">
@@ -121,9 +121,9 @@ code > span.in { color: #60a0b0; font-weight: bold; font-style: italic; } /* Inf
 <li class="chapter" data-level="3.1.4" data-path="payoff.html"><a href="payoff.html#combinations"><i class="fa fa-check"></i><b>3.1.4</b> Combinations</a></li>
 </ul></li>
 <li class="chapter" data-level="3.2" data-path="payoff.html"><a href="payoff.html#autocallable"><i class="fa fa-check"></i><b>3.2</b> Autocallable</a><ul>
-<li class="chapter" data-level="3.2.1" data-path="payoff.html"><a href="payoff.html#apollon"><i class="fa fa-check"></i><b>3.2.1</b> Snowball</a></li>
-<li class="chapter" data-level="3.2.2" data-path="payoff.html"><a href="payoff.html#phoenix"><i class="fa fa-check"></i><b>3.2.2</b> Phoenix</a></li>
-<li class="chapter" data-level="3.2.3" data-path="payoff.html"><a href="payoff.html#fcn"><i class="fa fa-check"></i><b>3.2.3</b> Fixed Coupons Notes</a></li>
+<li class="chapter" data-level="3.2.1" data-path="payoff.html"><a href="payoff.html#fcn"><i class="fa fa-check"></i><b>3.2.1</b> Fixed Coupon</a></li>
+<li class="chapter" data-level="3.2.2" data-path="payoff.html"><a href="payoff.html#apollon"><i class="fa fa-check"></i><b>3.2.2</b> Snowball</a></li>
+<li class="chapter" data-level="3.2.3" data-path="payoff.html"><a href="payoff.html#phoenix"><i class="fa fa-check"></i><b>3.2.3</b> Phoenix</a></li>
 </ul></li>
 <li class="chapter" data-level="3.3" data-path="payoff.html"><a href="payoff.html#issuercallable"><i class="fa fa-check"></i><b>3.3</b> Issuercallable</a></li>
 </ul></li>
